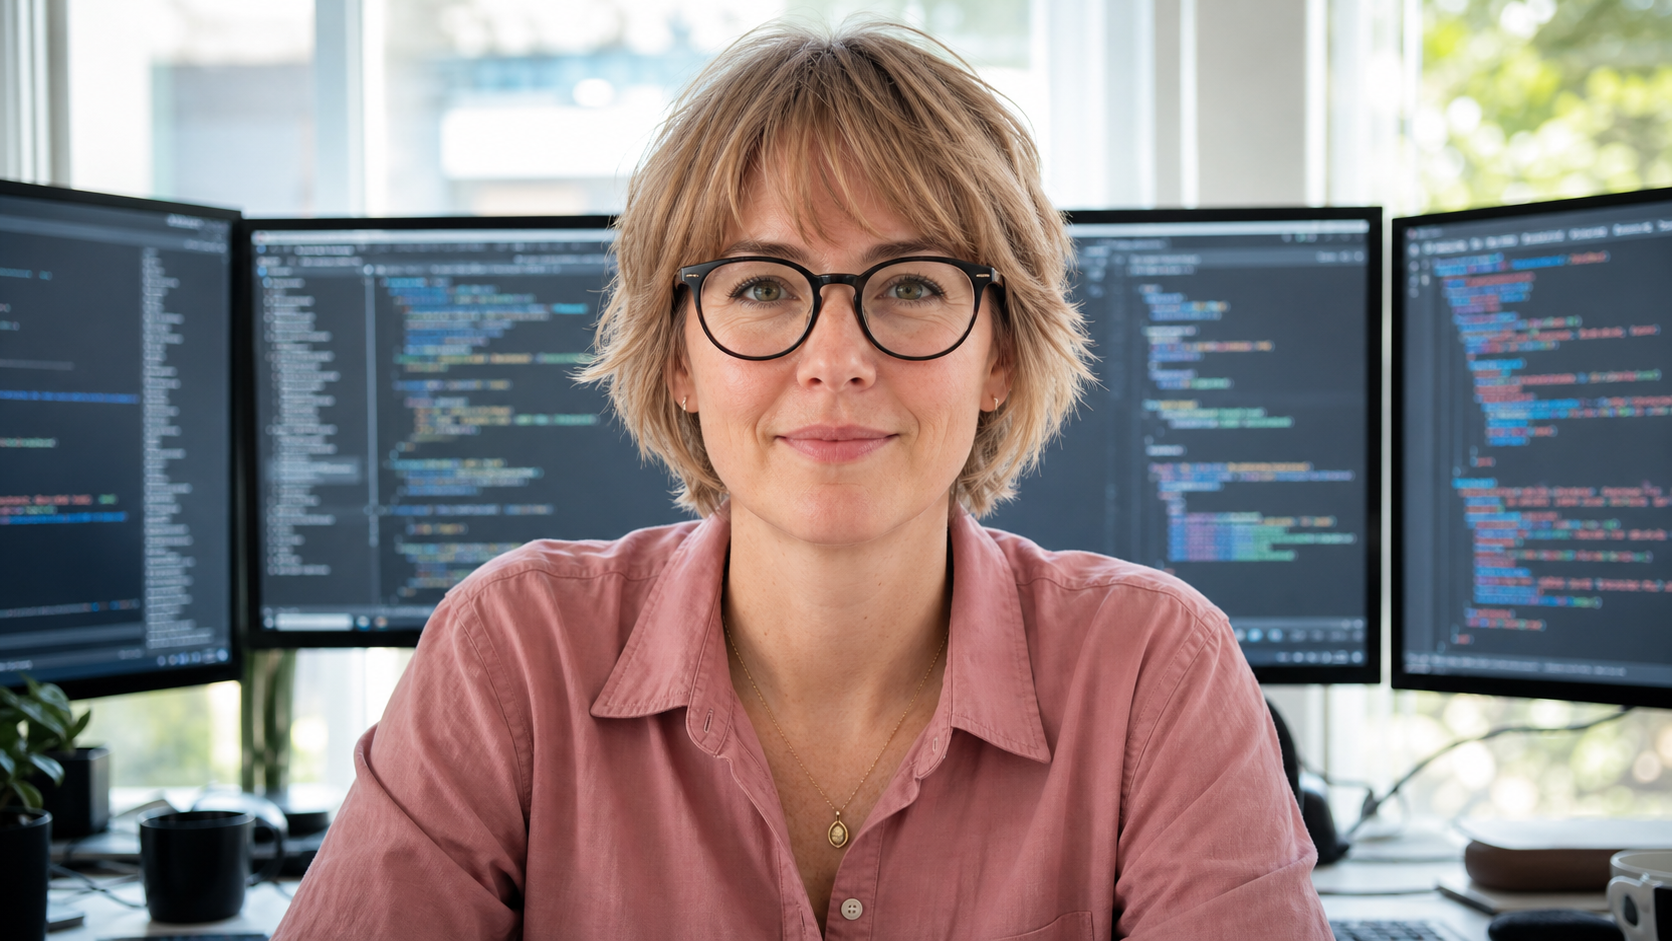
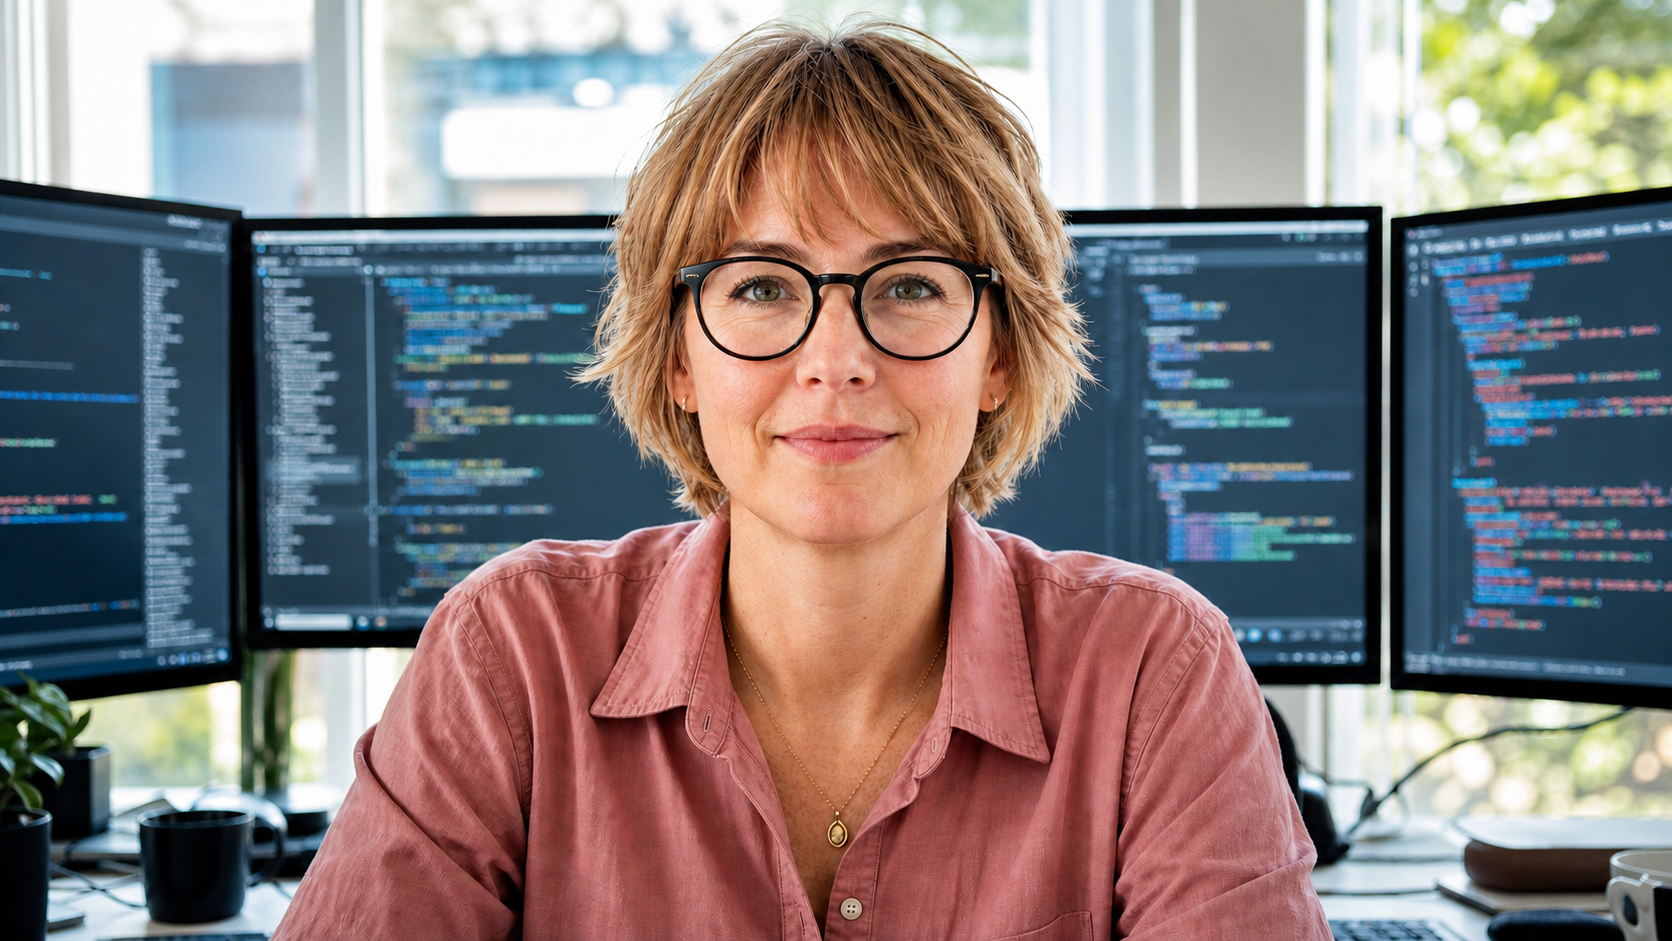
Add responsive hero images and navbar layout

diff --git a/src/components/Navbar.tsx b/src/components/Navbar.tsx
@@ -13,18 +13,23 @@ export default function Navbar() {
 
   useEffect(() => {
     const onScroll = () => setScrolled(window.scrollY > 24);
+
     onScroll();
     window.addEventListener("scroll", onScroll, { passive: true });
+
     return () => window.removeEventListener("scroll", onScroll);
   }, []);
 
   useEffect(() => {
     if (!open) return;
+
     const onKey = (e: KeyboardEvent) => {
       if (e.key === "Escape") setOpen(false);
     };
+
     document.addEventListener("keydown", onKey);
     document.body.style.overflow = "hidden";
+
     return () => {
       document.removeEventListener("keydown", onKey);
       document.body.style.overflow = "";
@@ -38,39 +43,45 @@ export default function Navbar() {
     <header
       className={`fixed inset-x-0 top-0 z-50 transition-all duration-500 ${
         scrolled || open
-          ? "bg-ink/90 backdrop-blur-md border-b border-white/10 shadow-[0_10px_40px_-18px_rgba(0,0,0,0.6)]"
-          : "bg-transparent border-b border-transparent"
+          ? "border-b border-white/10 bg-ink/90 shadow-[0_10px_40px_-18px_rgba(0,0,0,0.6)] backdrop-blur-md"
+          : "border-b border-transparent bg-transparent"
       }`}
     >
       <nav
-        className="site-container flex h-[4.5rem] items-center justify-between gap-6"
+        className="site-container flex h-[4.5rem] items-center justify-between gap-4"
         aria-label="Main navigation"
       >
+        {/* Logo */}
         <Link
           href="/"
           onClick={() => setOpen(false)}
-          className="group flex items-center gap-3"
+          className="group flex min-w-0 shrink-0 items-center gap-3"
           aria-label="Julie Lupex — home"
         >
-          <span className="grid h-10 w-10 place-items-center rounded-xl border border-violet/40 bg-ink-3 font-display text-sm font-bold tracking-tight text-violet transition-colors duration-300 group-hover:bg-violet group-hover:text-ink">
+          <span className="grid h-10 w-10 shrink-0 place-items-center rounded-xl border border-violet/40 bg-ink-3 font-display text-sm font-bold tracking-tight text-violet transition-colors duration-300 group-hover:bg-violet group-hover:text-ink">
             {"<JL />"}
           </span>
-          <span className="leading-none">
+
+          <span className="hidden leading-none sm:block">
             <span className="block font-display text-[0.95rem] font-bold tracking-[0.14em] text-paper">
               JULIE LUPEX
             </span>
+
             <span className="mt-1 block text-[0.62rem] font-medium tracking-[0.32em] text-mist">
               WEB DEVELOPER
             </span>
           </span>
         </Link>
 
-        <ul className="hidden items-center gap-7 lg:flex">
+        {/* Desktop navigation */}
+        <ul className="hidden items-center gap-5 xl:flex">
           {navLinks.map((link) => (
             <li key={link.href}>
               <Link
                 href={link.href}
-                className={`nav-link ${isActive(link.href) ? "active" : ""}`}
+                className={`nav-link whitespace-nowrap ${
+                  isActive(link.href) ? "active" : ""
+                }`}
                 aria-current={isActive(link.href) ? "page" : undefined}
               >
                 {link.label}
@@ -79,31 +90,41 @@ export default function Navbar() {
           ))}
         </ul>
 
-        <div className="flex items-center gap-3">
+        {/* Actions */}
+        <div className="flex shrink-0 items-center gap-3">
           <Link
             href="/contact"
-            className="btn btn-primary hidden px-6! py-2.5! text-sm! lg:inline-flex"
+            className="btn btn-primary hidden whitespace-nowrap px-5! py-2.5! text-sm! xl:inline-flex"
           >
             Let&apos;s Work Together
             <ArrowRight size={16} aria-hidden="true" />
           </Link>
+
+          {/* Mobile / tablet menu */}
           <button
             type="button"
-            className="grid h-11 w-11 place-items-center rounded-xl border border-white/15 text-paper transition-colors hover:border-violet hover:text-violet lg:hidden"
+            className="grid h-11 w-11 shrink-0 place-items-center rounded-xl border border-white/15 text-paper transition-colors hover:border-violet hover:text-violet xl:hidden"
             onClick={() => setOpen((v) => !v)}
             aria-expanded={open}
             aria-controls="mobile-menu"
             aria-label={open ? "Close menu" : "Open menu"}
           >
-            {open ? <X size={20} aria-hidden="true" /> : <Menu size={20} aria-hidden="true" />}
+            {open ? (
+              <X size={20} aria-hidden="true" />
+            ) : (
+              <Menu size={20} aria-hidden="true" />
+            )}
           </button>
         </div>
       </nav>
 
+      {/* Mobile / tablet menu */}
       <div
         id="mobile-menu"
-        className={`overflow-hidden bg-ink/95 backdrop-blur-md transition-[max-height,opacity] duration-500 ease-out lg:hidden ${
-          open ? "max-h-[34rem] opacity-100 border-b border-white/10" : "max-h-0 opacity-0"
+        className={`overflow-hidden bg-ink/95 backdrop-blur-md transition-[max-height,opacity] duration-500 ease-out xl:hidden ${
+          open
+            ? "max-h-[34rem] border-b border-white/10 opacity-100"
+            : "max-h-0 opacity-0"
         }`}
       >
         <ul className="site-container flex flex-col gap-1 py-5">
@@ -121,12 +142,17 @@ export default function Navbar() {
                 style={{ transitionDelay: `${i * 20}ms` }}
               >
                 {link.label}
+
                 {isActive(link.href) && (
-                  <span className="h-1.5 w-1.5 rounded-full bg-violet" aria-hidden="true" />
+                  <span
+                    className="h-1.5 w-1.5 rounded-full bg-violet"
+                    aria-hidden="true"
+                  />
                 )}
               </Link>
             </li>
           ))}
+
           <li className="pt-3">
             <Link
               href="/contact"

diff --git a/src/components/HomeHero.tsx b/src/components/HomeHero.tsx
@@ -1,6 +1,5 @@
 "use client";
 
-import Image from "next/image";
 import { ArrowDown } from "lucide-react";
 import { useEffect, useState } from "react";
 
@@ -30,14 +29,18 @@ export default function HomeHero() {
     >
       {/* Hero image */}
       <div className="absolute inset-0">
-        <Image
-          src="/images/julie-hero.png"
-          alt="Julie working at her desk"
-          fill
-          priority
-          sizes="100vw"
-          className="object-cover object-center"
-        />
+        <picture className="absolute inset-0 block">
+          <source
+            media="(max-width: 767px)"
+            srcSet="/images/julie-hero-mobile.png"
+          />
+
+          <img
+            src="/images/julie-hero.png"
+            alt="Julie working at her desk"
+            className="h-full w-full object-cover object-center"
+          />
+        </picture>
 
         {/* Editorial dark overlay */}
         <div className="absolute inset-0 bg-black/45" />
@@ -54,8 +57,6 @@ export default function HomeHero() {
             className="h-2 w-2 shrink-0 rounded-full bg-[var(--accent)]"
             aria-hidden="true"
           />
-
-        
         </div>
 
         {/* Main content */}
@@ -87,9 +88,9 @@ export default function HomeHero() {
         {/* Currently building */}
         <div className="mt-10 max-w-full sm:mt-12 md:mt-14">
           <div className="inline-flex max-w-full flex-wrap items-baseline gap-x-2 gap-y-1 rounded-md border border-white/10 bg-black/35 px-3 py-2 backdrop-blur-sm sm:px-4 sm:py-2.5">
-           <span className="font-mono text-[10px] font-medium uppercase tracking-[0.08em] text-white/45 sm:text-xs">
-  {"// currently building:"}
-</span>
+            <span className="font-mono text-[10px] font-medium uppercase tracking-[0.08em] text-white/45 sm:text-xs">
+              {"// currently building:"}
+            </span>
 
             <span
               key={buildingItems[currentItem]}
@@ -123,4 +124,4 @@ export default function HomeHero() {
       </div>
     </section>
   );
-} 
+}
